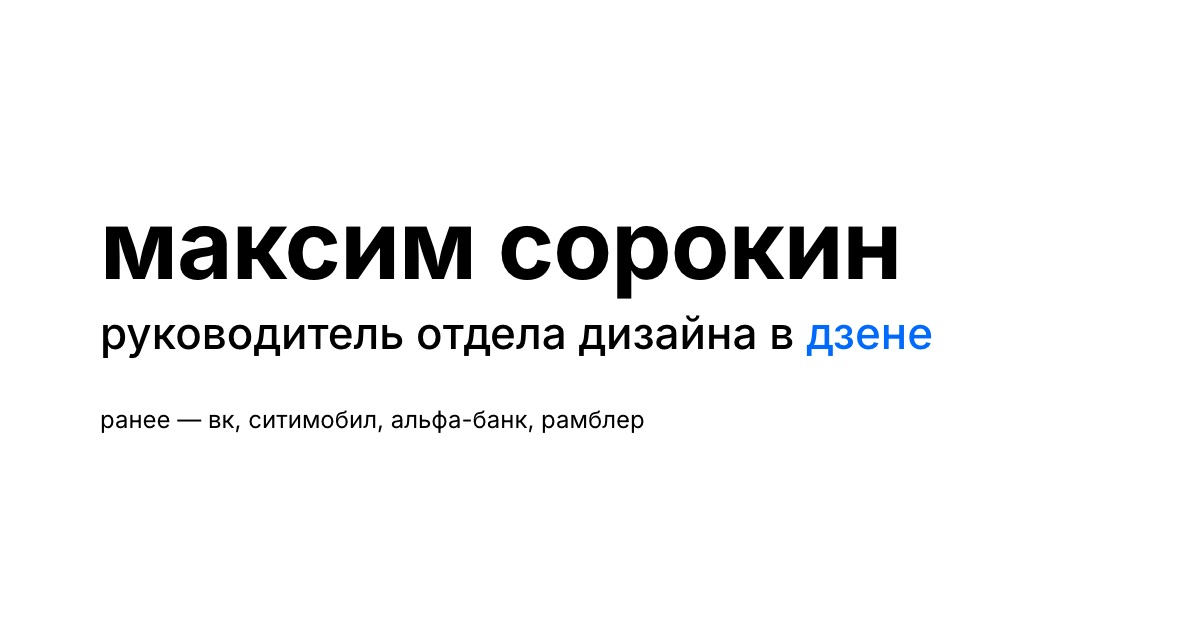
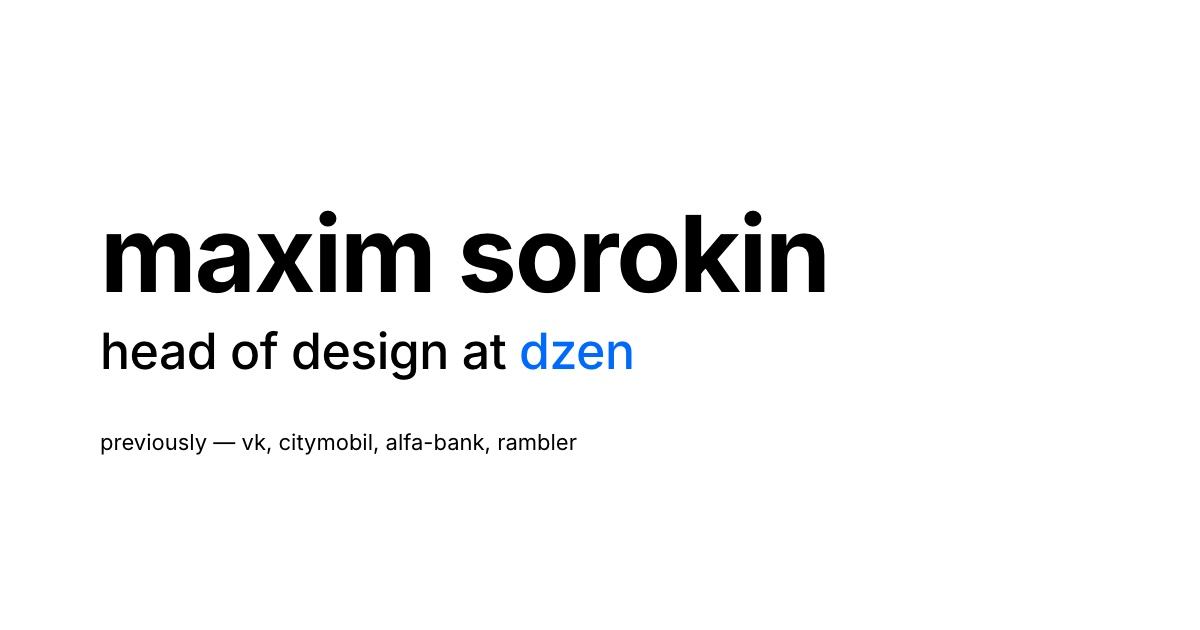
Страница переведена на английский
Русская версия не сохраняется: один адрес, одна версия, без переключателя
языка, папки /en/ и hreflang.

- тексты, lang="en", мета, og, twitter и JSON-LD Person — по-английски;
- все &nbsp; убраны: правило про предлоги и союзы к английской типографике
  не применяется;
- кириллические субсеты Inter и их @font-face удалены, остались три
  латинских файла;
- og.jpg перерисована по-английски, композиция отцентрована по
  типографическому боксу — у прежней пустовала нижняя треть.

Дизайн не менялся: те же классы и кегли, новых правил в styles.css нет.

Changed region(s): [[0.0925, 0.3317, 0.7708, 0.4825], [0.0617, 0.5127, 0.8017, 0.6032], [0.0617, 0.6333, 0.555, 0.7238]]

diff --git a/index.html b/index.html
@@ -1,26 +1,26 @@
 <!doctype html>
-<html lang="ru">
+<html lang="en">
 <head>
 	<meta charset="utf-8">
 	<meta name="viewport" content="width=device-width, initial-scale=1">
-	<title>максим сорокин — руководитель отдела дизайна в дзене</title>
-	<meta name="description" content="личная страница максима сорокина, руководителя отдела дизайна в дзене. ранее — вк, ситимобил, альфа-банк, рамблер">
+	<title>maxim sorokin — head of design at dzen</title>
+	<meta name="description" content="personal page of maxim sorokin, head of design at dzen. previously vk, citymobil, alfa-bank, rambler">
 	<link rel="canonical" href="https://maximsorokin.com/">
 
 	<meta property="og:type" content="profile">
 	<meta property="og:url" content="https://maximsorokin.com/">
-	<meta property="og:site_name" content="максим сорокин">
-	<meta property="og:locale" content="ru_RU">
-	<meta property="og:title" content="максим сорокин — руководитель отдела дизайна в дзене">
-	<meta property="og:description" content="личная страница максима сорокина, руководителя отдела дизайна в дзене. ранее — вк, ситимобил, альфа-банк, рамблер">
+	<meta property="og:site_name" content="maxim sorokin">
+	<meta property="og:locale" content="en_US">
+	<meta property="og:title" content="maxim sorokin — head of design at dzen">
+	<meta property="og:description" content="personal page of maxim sorokin, head of design at dzen. previously vk, citymobil, alfa-bank, rambler">
 	<meta property="og:image" content="https://maximsorokin.com/og.jpg">
 	<meta property="og:image:width" content="1200">
 	<meta property="og:image:height" content="630">
-	<meta property="og:image:alt" content="максим сорокин, руководитель отдела дизайна в дзене">
+	<meta property="og:image:alt" content="maxim sorokin, head of design at dzen">
 
 	<meta name="twitter:card" content="summary_large_image">
-	<meta name="twitter:title" content="максим сорокин — руководитель отдела дизайна в дзене">
-	<meta name="twitter:description" content="личная страница максима сорокина, руководителя отдела дизайна в дзене. ранее — вк, ситимобил, альфа-банк, рамблер">
+	<meta name="twitter:title" content="maxim sorokin — head of design at dzen">
+	<meta name="twitter:description" content="personal page of maxim sorokin, head of design at dzen. previously vk, citymobil, alfa-bank, rambler">
 	<meta name="twitter:image" content="https://maximsorokin.com/og.jpg">
 
 	<link rel="stylesheet" href="styles.css">
@@ -28,13 +28,13 @@
 <body>
 	<main class="page">
 		<div class="content">
-			<h1 class="name">максим сорокин</h1>
-			<h2 class="role">руководитель отдела дизайна в&nbsp;<a href="https://dzen.ru">дзене</a></h2>
-			<p class="about">ранее работал ведущим дизайнером в&nbsp;вк над&nbsp;мессенджером, в&nbsp;ситимобиле над&nbsp;приложением для&nbsp;пассажиров, в&nbsp;альфа-банке над&nbsp;мобильным банком и&nbsp;в&nbsp;рамблере над&nbsp;рамблер/кассой, рамблер/почтой и&nbsp;livejournal</p>
-			<nav class="links" aria-label="контакты">
-				<a href="mailto:mail@maximsorokin.com">имейл</a>
-				<a href="https://www.linkedin.com/in/mgsorokin/">линкедин</a>
-				<a href="https://www.instagram.com/maximsorokin/">инстаграм</a>
+			<h1 class="name">maxim sorokin</h1>
+			<h2 class="role">head of design at <a href="https://dzen.ru">dzen</a></h2>
+			<p class="about">previously a lead designer at vk on the messenger, at citymobil on the rider app, at alfa-bank on the mobile banking app and at rambler on rambler/kassa, rambler/mail and livejournal</p>
+			<nav class="links" aria-label="contacts">
+				<a href="mailto:mail@maximsorokin.com">email</a>
+				<a href="https://www.linkedin.com/in/mgsorokin/">linkedin</a>
+				<a href="https://www.instagram.com/maximsorokin/">instagram</a>
 			</nav>
 		</div>
 	</main>
@@ -43,14 +43,14 @@
 	{
 		"@context": "https://schema.org",
 		"@type": "Person",
-		"name": "максим сорокин",
+		"name": "maxim sorokin",
 		"url": "https://maximsorokin.com/",
 		"image": "https://maximsorokin.com/og.jpg",
 		"email": "mail@maximsorokin.com",
-		"jobTitle": "руководитель отдела дизайна",
+		"jobTitle": "head of design",
 		"worksFor": {
 			"@type": "Organization",
-			"name": "дзен",
+			"name": "dzen",
 			"url": "https://dzen.ru"
 		},
 		"sameAs": [

diff --git a/styles.css b/styles.css
@@ -1,6 +1,7 @@
 /* Inter подключён локально: внешний запрос к CDN задерживает первую отрисовку
-   и тянет стороннего провайдера. Латиница и кириллица — отдельными файлами,
-   чтобы браузер качал только нужный диапазон. */
+   и тянет стороннего провайдера. Страница латинская, поэтому подключён только
+   латинский субсет — unicode-range оставлен, чтобы браузер не качал шрифт
+   ради символов, которых в нём нет. */
 @font-face {
 	font-family: 'Inter';
 	font-style: normal;
@@ -8,15 +9,6 @@
 	font-display: swap;
 	src: url('fonts/inter-400-latin.woff2') format('woff2');
 	unicode-range: U+0000-00FF, U+0131, U+0152-0153, U+02BB-02BC, U+02C6, U+02DA, U+02DC, U+0304, U+0308, U+0329, U+2000-206F, U+20AC, U+2122, U+2191, U+2193, U+2212, U+2215, U+FEFF, U+FFFD;
-}
-
-@font-face {
-	font-family: 'Inter';
-	font-style: normal;
-	font-weight: 400;
-	font-display: swap;
-	src: url('fonts/inter-400-cyrillic.woff2') format('woff2');
-	unicode-range: U+0301, U+0400-045F, U+0490-0491, U+04B0-04B1, U+2116;
 }
 
 @font-face {
@@ -31,28 +23,10 @@
 @font-face {
 	font-family: 'Inter';
 	font-style: normal;
-	font-weight: 500;
-	font-display: swap;
-	src: url('fonts/inter-500-cyrillic.woff2') format('woff2');
-	unicode-range: U+0301, U+0400-045F, U+0490-0491, U+04B0-04B1, U+2116;
-}
-
-@font-face {
-	font-family: 'Inter';
-	font-style: normal;
 	font-weight: 700;
 	font-display: swap;
 	src: url('fonts/inter-700-latin.woff2') format('woff2');
 	unicode-range: U+0000-00FF, U+0131, U+0152-0153, U+02BB-02BC, U+02C6, U+02DA, U+02DC, U+0304, U+0308, U+0329, U+2000-206F, U+20AC, U+2122, U+2191, U+2193, U+2212, U+2215, U+FEFF, U+FFFD;
-}
-
-@font-face {
-	font-family: 'Inter';
-	font-style: normal;
-	font-weight: 700;
-	font-display: swap;
-	src: url('fonts/inter-700-cyrillic.woff2') format('woff2');
-	unicode-range: U+0301, U+0400-045F, U+0490-0491, U+04B0-04B1, U+2116;
 }
 
 :root {

diff --git a/README.md b/README.md
@@ -1,6 +1,6 @@
 # maximsorokin.com
 
-Личная страница-визитка Максима Сорокина. Один экран, русский язык, два состояния:
+Личная страница-визитка Максима Сорокина. Один экран, английский язык, два состояния:
 десктоп (≥ 768px) и мобильный (< 768px).
 
 ## Что внутри
@@ -8,8 +8,7 @@
 ```
 index.html    вся разметка и тексты
 styles.css    стили: мобильный базовый, один медиазапрос на 768px
-fonts/        Inter 400/500/700, woff2, латиница и кириллица отдельными файлами
-favicon.svg   иконка
+fonts/        Inter 400/500/700, woff2, латинский субсет
 og.jpg        картинка для превью ссылки (1200×630)
 robots.txt
 ```
@@ -22,8 +21,8 @@ Inter подключён локально: внешний запрос к CDN з
 и тянет за собой стороннего провайдера.
 
 Правка текста — одна строка в `index.html`, пересобирать нечего.
-Неразрывный пробел `&nbsp;` ставится после предлогов и союзов
-*в, и, на, за, из, от, до, по, об, не, но, над, для, с, к, о, у*.
+Неразрывных пробелов в разметке нет: правило «`&nbsp;` после предлогов и союзов»
+относится к русской типографике, к английской не применяется.
 
 ## Локальный просмотр
 
